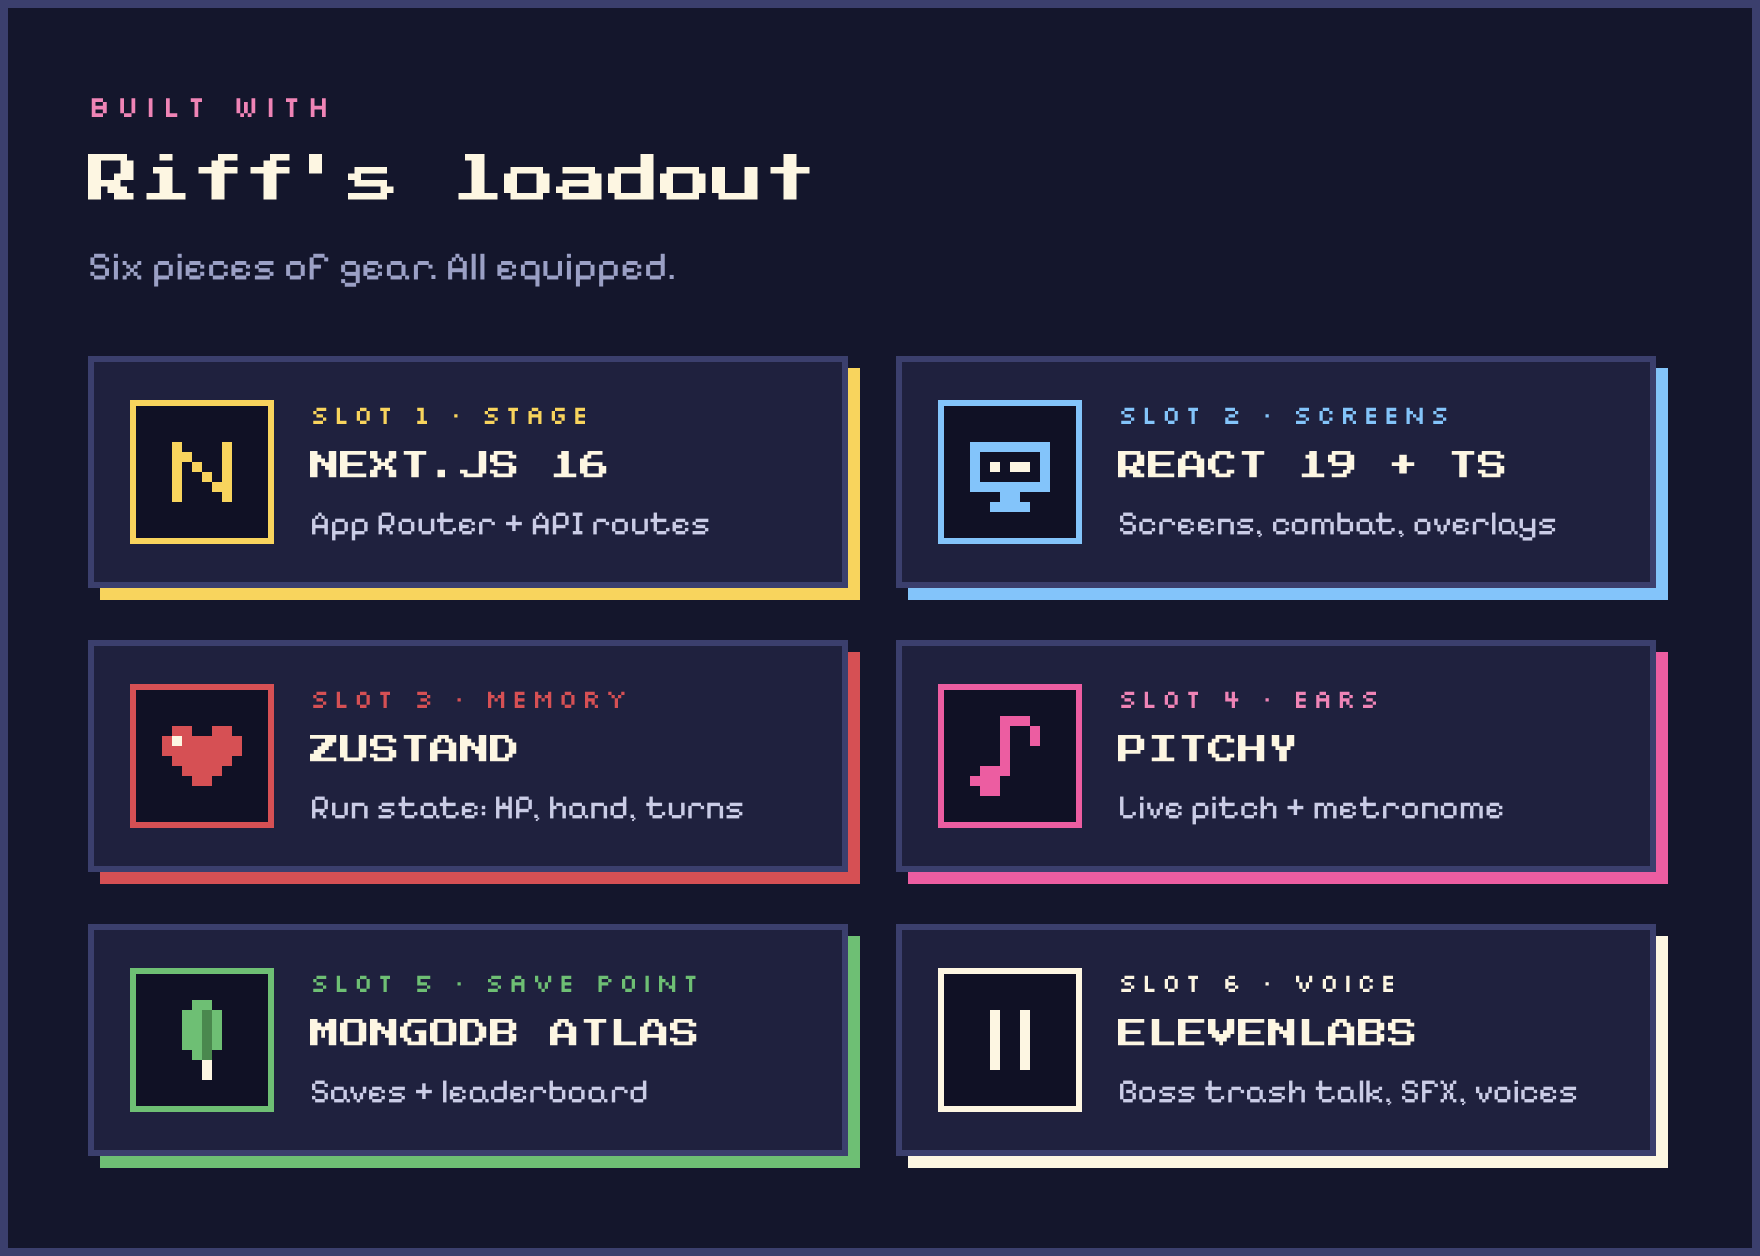
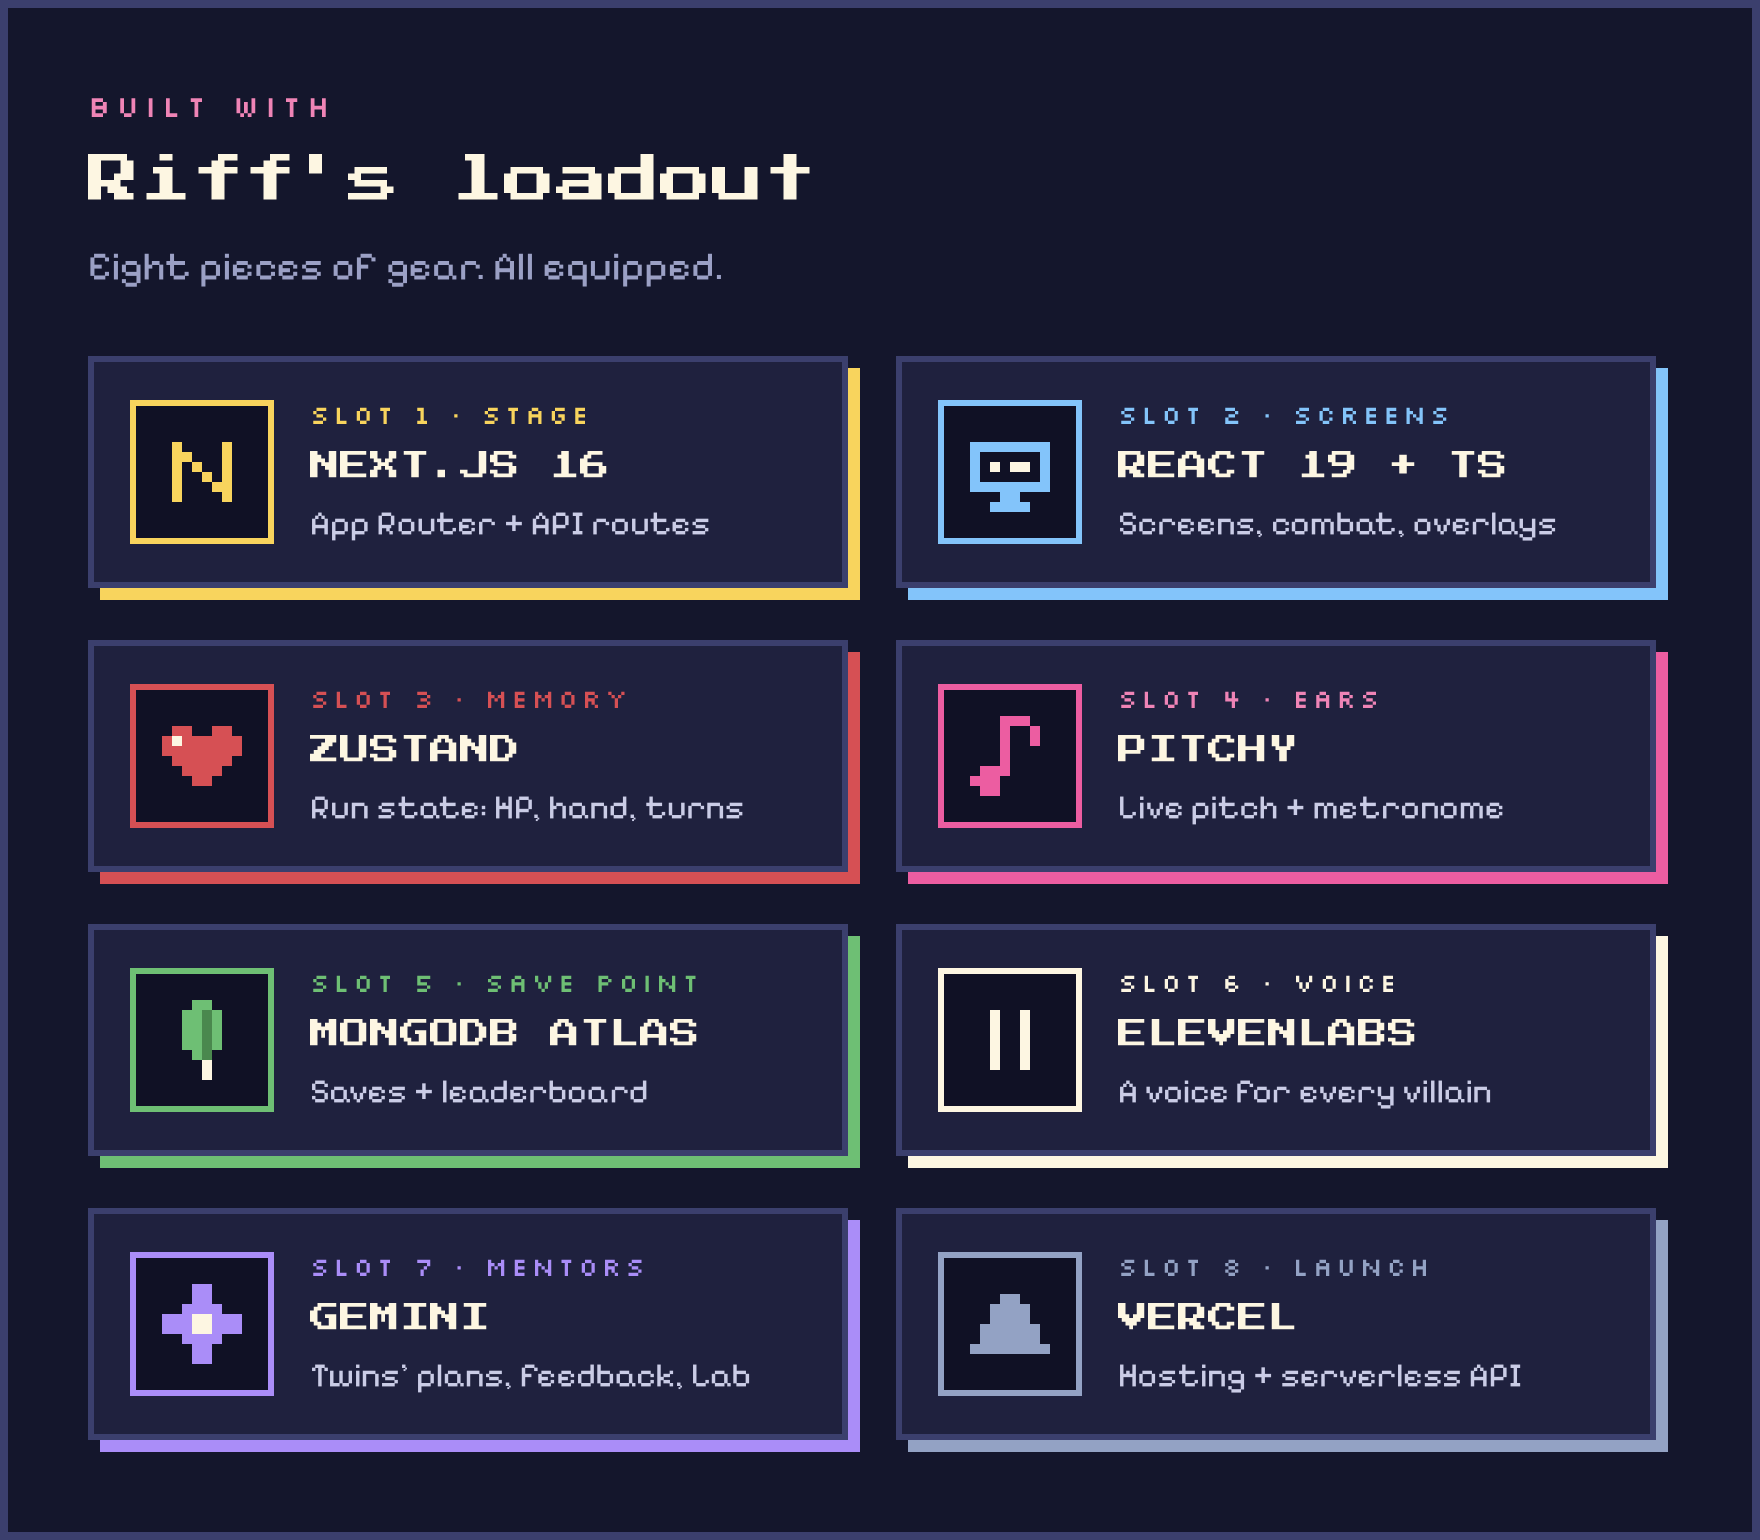
docs: add gemini and vercel to readme, link devpost and demo

Changed region(s): [[0.0312, 0.0621, 0.9688, 0.9626], [0.0, 0.9936, 1.0, 1.0]]

diff --git a/README.md b/README.md
@@ -1,7 +1,7 @@
 <div align="center">
 <img src="docs/readme/header.webp" alt="Slay the Choir: a roguelike where every card is music you play into the mic." width="100%">
 <br><br>
-<a href="https://slaythechoir.club/"><img src="docs/readme/btn-play.png" alt="Play Demo" width="22.6%"></a><a href="#"><img src="docs/readme/btn-devpost.png" alt="Devpost" width="19.8%"></a><a href="#"><img src="docs/readme/btn-watch.png" alt="Watch Demo" width="24.2%"></a><a href="https://app.paper.design/file/01M3DRNNWNJ9ZYFPFHF5YF6BJQ/p-2-0"><img src="docs/readme/btn-design.png" alt="Design mockups in Paper" width="17.3%"></a>
+<a href="https://slaythechoir.club/"><img src="docs/readme/btn-play.png" alt="Play Demo" width="22.6%"></a><a href="https://devpost.com/software/slaythechoir"><img src="docs/readme/btn-devpost.png" alt="Devpost" width="19.8%"></a><a href="https://www.youtube.com/watch?v=rBND0AHqjGE&t=385s"><img src="docs/readme/btn-watch.png" alt="Watch Demo" width="24.2%"></a><a href="https://app.paper.design/file/01M3DRNNWNJ9ZYFPFHF5YF6BJQ/p-2-0"><img src="docs/readme/btn-design.png" alt="Design mockups in Paper" width="17.3%"></a>
 </div>
 
 ---
@@ -27,7 +27,7 @@ Trumpet, clarinet, alto and tenor sax, flute or French horn. Every card is trans
 <tr>
 <td width="42%">
 <h3>Climb the spire</h3>
-6 acts, 18 foes, no retries. Bosses taunt you out loud, and get meaner every time you miss.
+6 acts, 18 foes, no retries. Every villain has its own voice and taunts you out loud, and gets meaner every time you miss.
 </td>
 <td width="58%"><img src="docs/readme/tile-climb.webp" alt="The spire path with a goblin drummer, a brass serpent and the Choir boss" width="100%"></td>
 </tr>
@@ -42,11 +42,11 @@ Chords, rhythms and scales graded live, note by note. Clear 80% and the card hit
 
 ---
 
-<img src="docs/readme/loadout.png" alt="Built with: Next.js 16, React 19 + TypeScript, Zustand, Pitchy + Web Audio, MongoDB Atlas, ElevenLabs" width="100%">
+<img src="docs/readme/loadout.png" alt="Built with: Next.js 16, React 19 + TypeScript, Zustand, Pitchy, MongoDB Atlas, ElevenLabs, Gemini, Vercel" width="100%">
 
 ---
 
-<img src="docs/readme/architecture.png" alt="Architecture: Mic → Pitchy → Web Audio grading → Zustand → Next.js" width="100%">
+<img src="docs/readme/architecture.png" alt="Architecture: Mic → Pitchy → Web Audio grading → Zustand → ElevenLabs taunts → Gemini coaching → Atlas saves → Next.js" width="100%">
 
 ---
 
@@ -59,7 +59,7 @@ npm install
 npm run dev
 ```
 
-Add `ELEVENLABS_API_KEY` and `MONGODB_URI` to `.env.local` for trash talk and accounts. No mic? The game falls back to demo mode. No database? You play as a guest.
+Add `ELEVENLABS_API_KEY` (villain voices), `MONGODB_URI` (accounts, saves, leaderboard, tavern) and `GEMINI_API_KEY` (the twins' coaching) to `.env.local`. No mic? The game falls back to demo mode. No database? You play as a guest.
 
 ---
 
